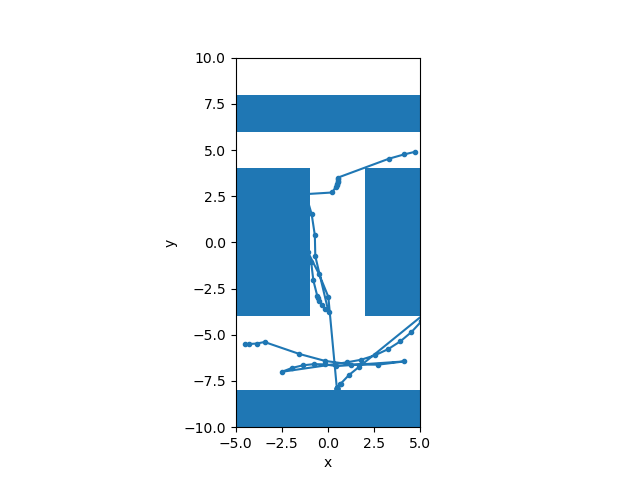
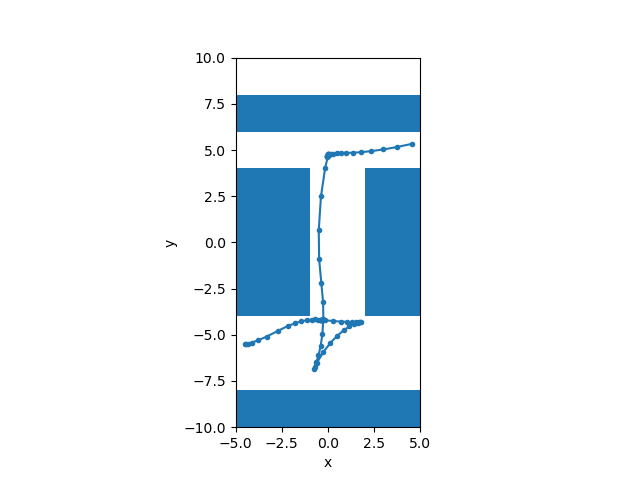
fixed major bugs with rgrrt

Changed region(s): [[0.4375, 0.4375, 0.6562, 0.8125], [0.5, 0.2812, 0.6562, 0.4375], [0.375, 0.6875, 0.4375, 0.7188]]

diff --git a/src/RG-RRT.cpp b/src/RG-RRT.cpp
@@ -112,11 +112,13 @@ void oc::RGRRT::generateReachabilitySet(oc::RGRRT::Motion *motion) {
 
         // TODO: when commented out the below check for 0, less collisions in our plotting and more correct looking paths
         // HOWEVER, adding this in did make a difference with benchmarking, so maybe this is where our code is going wrong?
+        // TODO: maybe consider setting fixed steps to a value depending on where the obstacles are? not sure how to do this lol
         int stps = siC_->getMinControlDuration();
         /*if (stps == 0)
         {
             // Set to a fixed value (picked 2? I don't know)
-            stps = 2;
+            //stps = 0.01; --> too small gives weird paths with less collisions but still collisions
+            //stps = siC_->getMaxControlDuration(); --> too big of jumps resulting in collisions
         }*/
         int stepsNoCollision = siC_->propagateWhileValid(motion->state, motion->control, stps, resultState);
 
@@ -198,7 +200,16 @@ ob::PlannerStatus oc::RGRRT::solve(const base::PlannerTerminationCondition &ptc)
                 goal_s->sampleGoal(rstate); //qrand
             else
                 sampler_->sampleUniform(rstate); //qrand
+            
 
+            // TEST: see if qrand is not a valid state, shouldn't move toward it? 
+            // This decision seemed to lead to less collision prone paths
+            if (!(si_->isValid(rstate)))
+            {
+                continue;
+            }
+
+            // TODO: is it safe to assume qnear is collision free since already in the tree?
             nmotion = nn_->nearest(rmotion); //qnear
 
             // Distance between qnear and qrand
@@ -274,16 +285,20 @@ ob::PlannerStatus oc::RGRRT::solve(const base::PlannerTerminationCondition &ptc)
             if (cd >= siC_->getMinControlDuration())
             {
                 /* create a motion */
-                // Copying our sampled state and control into a new motion getting aded to the tree
+                // Copying our sampled state and control into a new motion getting added to the tree
                 auto *motion = new Motion(siC_);
                 si_->copyState(motion->state, rmotion->state);
                 siC_->copyControl(motion->control, rctrl);
+
+                // ADDED: solved major bugs yippee!
+                motion->reachables = rmotion->reachables;
                 
                 motion->steps = cd;
                 motion->parent = nmotion;
 
                 // TODO: do we need to generate a reachability set here? (I added it, but want to double check I didn't mess anything up lol)
-                generateReachabilitySet(motion);
+                //generateReachabilitySet(motion);
+                // UPDATEE!! ^^ no we don't, this caused major issues because creating a new reachability set when we are just copying info over from qrand
 
                 nn_->add(motion);
                 double dist = 0.0;
